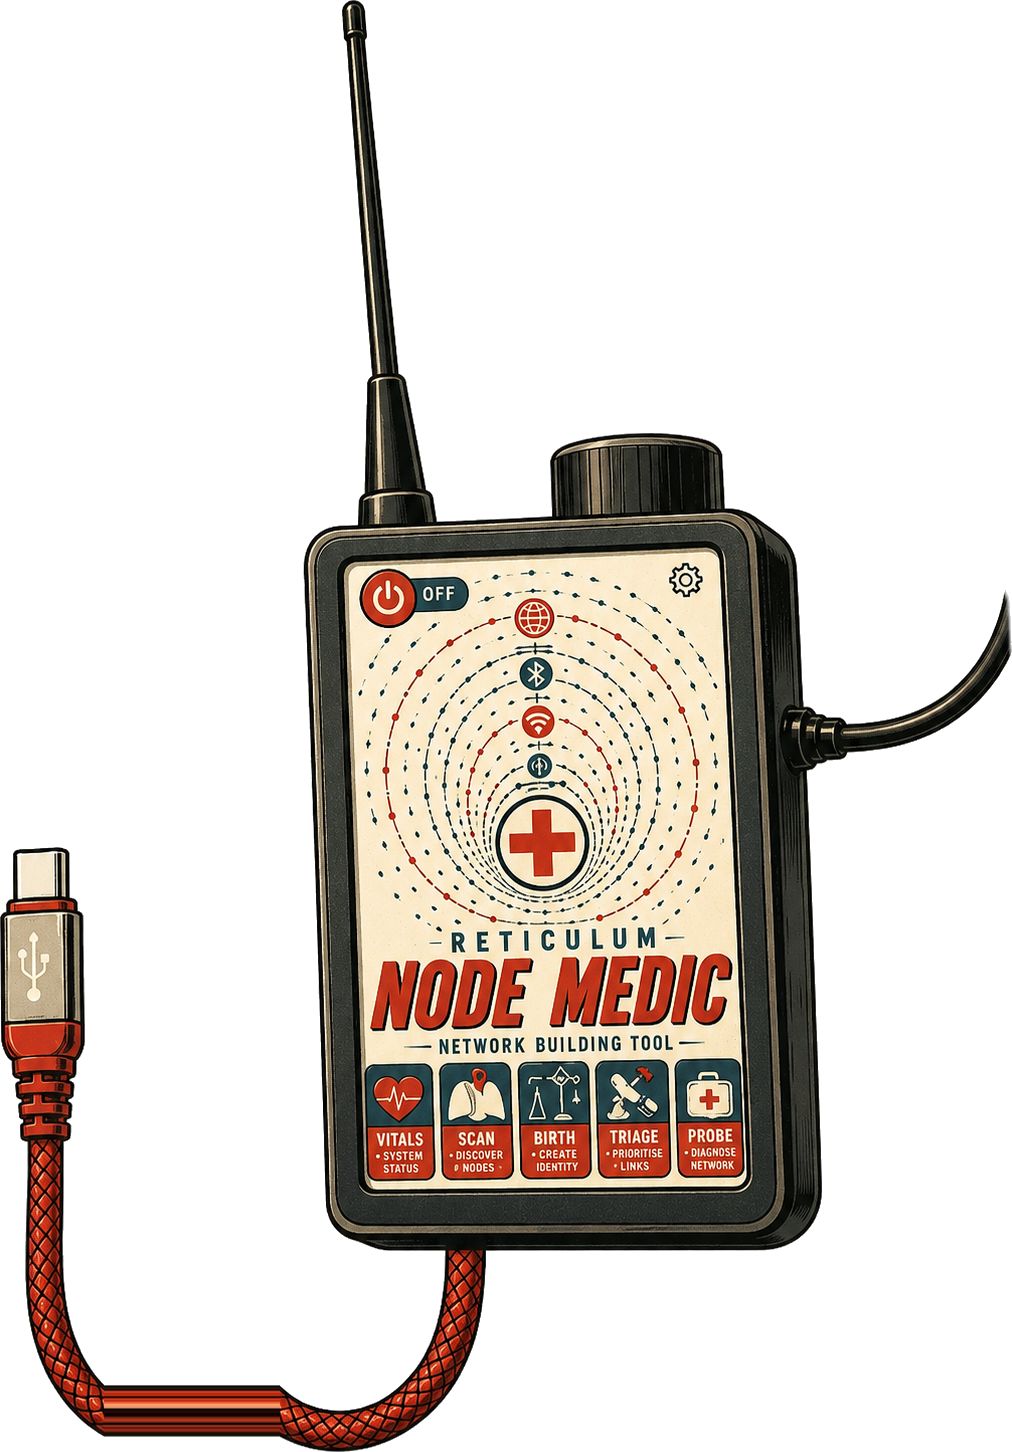
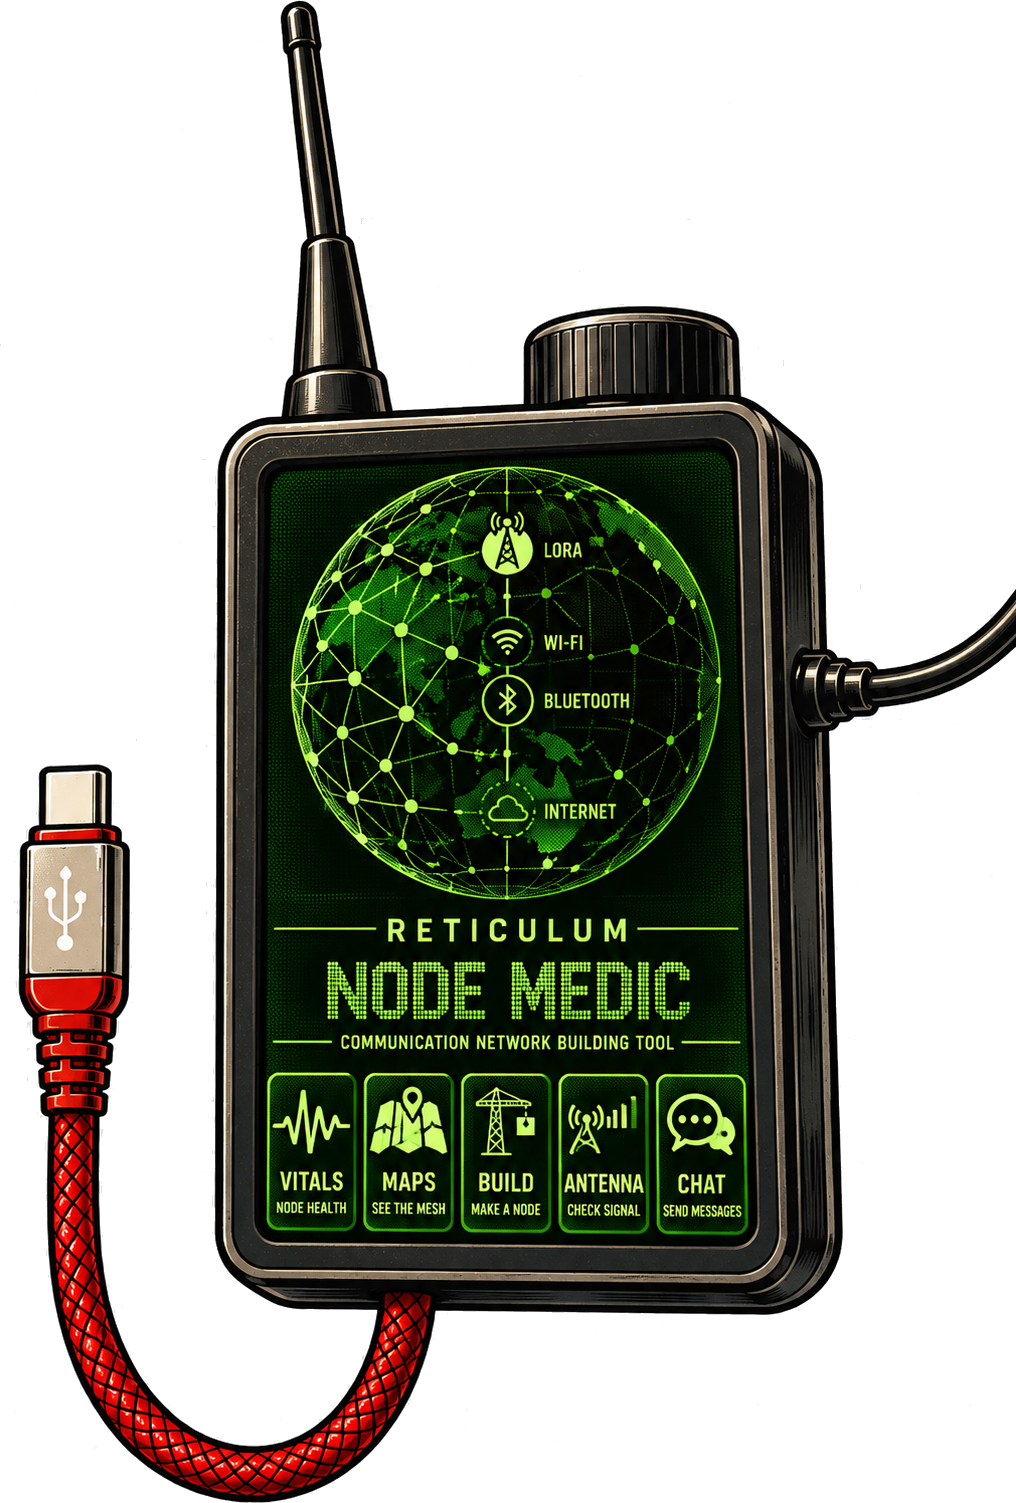
theme: green phosphor across every working page
Operator: "we're going to change the feel of all the working pages to try and
match the front screen with that green old computer style text."

Done in the two places that reach everything rather than screen by screen. The
palette is one dict in ui/theme.py that all 38 screens already read, and its
three chrome colours were SAMPLED off the shipped poster — background from its
ground, text_primary from the ink its key labels are drawn in — so the working
pages and the front page are literally the same green.

The rim from the operator's map mockup — a green outline around a dark plate —
is added in ui/rounded.py, which already draws the background of all 196
buttons. One rule, not 196 edits, and the 197th button gets it too.

TWO THINGS DELIBERATELY DID NOT GO GREEN, and both would have been silent
regressions:

Status colours. A healthy node has meant green since the first screen. With
green chrome, chrome and signal must not be the same ink — so status green
stays the saturated #00c853 while chrome text is a paler, yellower phosphor,
and the rim is refused on any saturated fill. A delete button ringed in green
would argue with the one thing red exists to say.

The basemap. SCAN draws over a PALE street raster and the operator already
told us green on it is unreadable (2026-09-09). The blue that used to be
`accent` survives as `map_accent`, and the LoRa link lane and the engine's
suggestion markers now point at it, so nothing drawn on tiles went green.
[…]

diff --git a/ui/rounded.py b/ui/rounded.py
@@ -42,6 +42,20 @@ RADIUS_DP = 10
 PRESS_DARKEN = 0.72
 DISABLED_ALPHA = 0.45
 
+#: The lit rim every button wears in the phosphor palette (operator artwork,
+#: 2026-09-29). Drawn here rather than per screen for the same reason the
+#: corners are: 196 call sites, and the 197th would be the plain one.
+RIM_WIDTH_DP = 1.2
+RIM_ALPHA = 0.55
+#: A rim on a button that is ALREADY bright would fight its own fill, so it is
+#: drawn only on the dark plates. Measured against the fill's own luminance.
+RIM_MAX_FILL_LUMA = 0.42
+#: ...and never on a SATURATED fill, however dark. The delete button is red
+#: because red is the warning; ringing it in phosphor green would argue with
+#: the one thing it is there to say. Chrome greys and near-blacks sit well
+#: under this; every status colour sits well above it.
+RIM_MAX_FILL_CHROMA = 0.25
+
 #: Kivy's own theme atlas. A button still pointing at it was never styled.
 _DEFAULT_ATLAS = "atlas://data/images/defaulttheme/"
 
@@ -73,6 +87,29 @@ def corner_radius(width: float, height: float, radius_px: float) -> float:
     if width <= 0 or height <= 0:
         return 0.0
     return max(0.0, min(radius_px, min(width, height) / 2.0))
+
+
+def fill_luma(rgba) -> float:
+    """Perceived brightness of a button's fill, 0..1. Used to decide whether a
+    lit rim would frame the plate or fight it."""
+    r, g, b = rgba[0], rgba[1], rgba[2]
+    return 0.2126 * r + 0.7152 * g + 0.0722 * b
+
+
+def wants_rim(rgba) -> bool:
+    """Should this button wear the phosphor rim?
+
+    Only the dark plates. An accent or status-coloured button is already the
+    brightest thing in its row — outlining it in green would either vanish into
+    the fill or read as a second, contradictory state. A transparent button
+    (the nav bar's Back and Home) gets nothing to outline.
+    """
+    if len(rgba) > 3 and rgba[3] <= 0.05:
+        return False
+    r, g, b = rgba[0], rgba[1], rgba[2]
+    if max(r, g, b) - min(r, g, b) > RIM_MAX_FILL_CHROMA:
+        return False
+    return fill_luma(rgba) <= RIM_MAX_FILL_LUMA
 
 
 def press_tint(rgba, state: str = "normal", disabled: bool = False):
@@ -118,17 +155,30 @@ def _install(btn, radius_dp: float) -> None:
     btn.background_normal = ""
     btn.background_down = ""
 
+    from kivy.graphics import Line
+    rim_rgba = theme.hex_to_rgba(theme.COLORS["accent"], RIM_ALPHA)
     with before:
         btn._rb_color = Color(*press_tint(btn.background_color, btn.state, btn.disabled))
         btn._rb_rect = RoundedRectangle(
             pos=btn.pos, size=btn.size,
             radius=[corner_radius(btn.width, btn.height, radius_px)] * 4)
+        btn._rb_rim_c = Color(*rim_rgba)
+        btn._rb_rim = Line(width=dp(RIM_WIDTH_DP))
 
     def repaint(*_):
         btn._rb_color.rgba = press_tint(btn.background_color, btn.state, btn.disabled)
         btn._rb_rect.pos = btn.pos
         btn._rb_rect.size = btn.size
-        btn._rb_rect.radius = [corner_radius(btn.width, btn.height, radius_px)] * 4
+        r = corner_radius(btn.width, btn.height, radius_px)
+        btn._rb_rect.radius = [r] * 4
+        show = wants_rim(btn.background_color) and not btn.disabled
+        btn._rb_rim_c.rgba = rim_rgba if show else (0, 0, 0, 0)
+        if show:
+            inset = dp(RIM_WIDTH_DP)
+            btn._rb_rim.rounded_rectangle = (
+                btn.x + inset, btn.y + inset,
+                max(dp(2), btn.width - inset * 2),
+                max(dp(2), btn.height - inset * 2), max(0.0, r - inset))
 
     btn.bind(pos=repaint, size=repaint, state=repaint, disabled=repaint,
              background_color=repaint)

diff --git a/ui/theme.py b/ui/theme.py
@@ -10,16 +10,38 @@ from __future__ import annotations
 import math
 from typing import Tuple
 
-#: 1280x720 landscape dark theme palette.
+#: The palette. GREEN PHOSPHOR since 2026-09-29, on the operator's call: "we're
+#: going to change the feel of all the working pages to try and match the front
+#: screen with that green old computer style text."
+#:
+#: The three chrome colours were sampled off the shipped poster rather than
+#: invented — background from its ground, text_primary from the ink its key
+#: labels are drawn in. Everything downstream reads these names, so the whole
+#: tool changes here and nowhere else.
+#:
+#: WHAT DELIBERATELY DID NOT GO GREEN:
+#:
+#:  * the STATUS triad (green / amber / red). A healthy node has meant green
+#:    since the first screen; if the chrome is also green, the signal stops
+#:    being a signal. Status green stays the saturated #00c853 while chrome
+#:    text is a paler, yellower phosphor, so the two never read as the same ink.
+#:  * anything drawn on the SCAN basemap. That map is a PALE street raster and
+#:    green on it is unreadable — the operator said so on 2026-09-09 ("the green
+#:    text is hard to read on the map"). The blue that used to be `accent` now
+#:    lives on as `map_accent` and keeps the link lines and the engine's
+#:    suggestion markers legible over pale tiles.
 COLORS = {
-    "background": "#1a1a1a",
-    "surface": "#242424",
-    "sidebar": "#141414",
+    "background": "#041004",
+    "surface": "#0b1c0b",
+    "sidebar": "#020802",
     "black": "#000000",      # the front page's power line (2026-09-22)
-    "green": "#00c853",
+    "green": "#00c853",      # STATUS: healthy. NOT the chrome green.
     "amber": "#ff6d00",
     "red": "#d50000",
-    "accent": "#4fc3f7",
+    "accent": "#8ef04a",
+    # What `accent` was before the phosphor palette. Kept for everything drawn
+    # ON the pale basemap, where a green would disappear.
+    "map_accent": "#4fc3f7",
     # Node NAME text on the SCAN map. The dot still carries the health
     # colour (that is the signal); the name only has to be legible on a
     # pale basemap, and status green was not (operator, 2026-09-09:
@@ -32,8 +54,8 @@ COLORS = {
     "link_wifi": "#9ccc65",
     "link_internet": "#ffd54f",
     "link_bt": "#b388ff",
-    "text_primary": "#f0f0f0",
-    "text_secondary": "#9e9e9e",
+    "text_primary": "#b0f66c",     # the poster's own ink
+    "text_secondary": "#6f9a4a",
     "warning_yellow": "#ffd21e",   # requirement/hazard popups (dark text on this)
 }
 

diff --git a/tests/test_theme.py b/tests/test_theme.py
@@ -64,3 +64,41 @@ def test_status_color_maps_to_palette():
 def test_status_rgba_returns_tuple():
     rgba = theme.status_rgba("ok")
     assert len(rgba) == 4
+
+
+# --- the phosphor palette (2026-09-29) --------------------------------------
+
+def test_status_green_is_not_the_chrome_green():
+    """A healthy node has meant green since the first screen. With the chrome
+    now green too, the two must never be the same ink or the signal stops being
+    a signal."""
+    from ui import theme
+    assert theme.COLORS["green"] != theme.COLORS["accent"]
+    assert theme.COLORS["green"] != theme.COLORS["text_primary"]
+
+
+def test_the_basemap_keeps_a_colour_that_reads_on_pale_tiles():
+    """SCAN draws over a PALE street raster, and the operator said on
+    2026-09-09 that green on it is unreadable. The blue that used to be
+    `accent` survives as `map_accent` for everything drawn on those tiles."""
+    from ui import theme
+    from ui.screens import scan_screen          # noqa: F401 — import-time check
+    assert "map_accent" in theme.COLORS
+    src = open("ui/screens/scan_screen.py").read()
+    i = src.index("LINK_COLOURS = {")
+    block = src[i:i + 300]
+    assert '"lora": "map_accent"' in block, (
+        "the LoRa link lane went green — it is drawn on the pale basemap")
+    assert '"accent"' not in block
+
+
+def test_chrome_text_reads_on_the_chrome_ground():
+    """The palette is sampled off the poster, but the pairing still has to
+    work: the commonest text colour on the commonest surface."""
+    from ui import theme
+    def luma(h):
+        r, g, b, _a = theme.hex_to_rgba(h)
+        return 0.2126 * r + 0.7152 * g + 0.0722 * b
+    for ground in ("background", "surface", "sidebar"):
+        assert luma(theme.COLORS["text_primary"]) - luma(theme.COLORS[ground]) > 0.45, (
+            f"text_primary is too close to {ground}")

diff --git a/tests/test_rounded_buttons.py b/tests/test_rounded_buttons.py
@@ -120,3 +120,30 @@ def test_the_app_turns_the_rule_on():
 def test_one_radius_for_the_whole_tool():
     """Buttons that disagree about their corners read as different apps."""
     assert RADIUS_DP == 10
+
+
+# --- the phosphor rim (2026-09-29) ------------------------------------------
+
+def test_dark_plates_wear_the_rim():
+    """The operator's map mockup draws every button as a green outline around a
+    dark plate. That is one rule, applied here, not 196 edits."""
+    from ui import theme
+    from ui.rounded import wants_rim
+    for name in ("surface", "background", "sidebar", "black"):
+        assert wants_rim(theme.hex_to_rgba(theme.COLORS[name])) is True, name
+
+
+def test_a_warning_button_is_never_ringed_in_green():
+    """Red is the warning. A phosphor rim around the delete button argues with
+    the one thing it exists to say — and amber and the status green are bright
+    enough that a rim would only muddy their edge."""
+    from ui import theme
+    from ui.rounded import wants_rim
+    for name in ("red", "amber", "green", "warning_yellow", "accent"):
+        assert wants_rim(theme.hex_to_rgba(theme.COLORS[name])) is False, name
+
+
+def test_a_transparent_button_has_no_rim_to_draw():
+    """The nav bar's Back and Home are text on the bar, not plates."""
+    from ui.rounded import wants_rim
+    assert wants_rim((0, 0, 0, 0)) is False

diff --git a/ui/screens/scan_screen.py b/ui/screens/scan_screen.py
@@ -569,7 +569,8 @@ class MapPlot(Widget):
     #: One colour per transport, so a line's hue says what carried it. LoRa
     #: keeps the accent (the standard view); the overlays each get their own
     #: lane; "unknown"/"local" draw with LoRa (path-implied mesh links).
-    LINK_COLOURS = {"lora": "accent", "unknown": "accent", "local": "accent",
+    LINK_COLOURS = {"lora": "map_accent", "unknown": "map_accent",
+                    "local": "map_accent",
                     "wifi": "link_wifi", "internet": "link_internet",
                     "bluetooth": "link_bt"}
 
@@ -629,7 +630,8 @@ class MapPlot(Widget):
         for s in self._suggestions:
             sx, sy = view.to_screen(s["lat"], s["lon"])
             cx, cy = self.x + sx, self.y + sy
-            Color(*theme.hex_to_rgba(theme.COLORS["accent"], 0.95))
+            # map_accent, not accent: these are drawn ON the pale basemap.
+            Color(*theme.hex_to_rgba(theme.COLORS["map_accent"], 0.95))
             if s.get("action") == "raise_antenna":
                 # A small up-arrow AT the kin node: raise what already
                 # stands here. Distinct from the new-node ring — same accent

diff --git a/ui/widgets/birth_anims.py b/ui/widgets/birth_anims.py
@@ -117,7 +117,13 @@ SD_ENDURANCE_PNG = os.path.join(_ANIM_DIR, "sd_card_endurance.png")
 
 #: The medic's USB plug tip within node_medic_cable.png (normalised, from top-left).
 #: The board's bottom USB port descends onto this point.
-_PLUG_TIP = (0.041, 0.583)
+#:
+#: RE-MEASURED 2026-09-29 when the operator supplied new medic artwork. The
+#: sprite changed aspect (0.697 -> 0.676) and the plug moved, so the old
+#: (0.041, 0.583) would have landed the board on empty canvas beside the plug.
+#: A normalised anchor is measured against ONE picture; swapping the picture
+#: without re-measuring is how an animation quietly starts pointing at nothing.
+_PLUG_TIP = (0.074, 0.509)
 
 _TEX_CACHE: dict = {}
 
